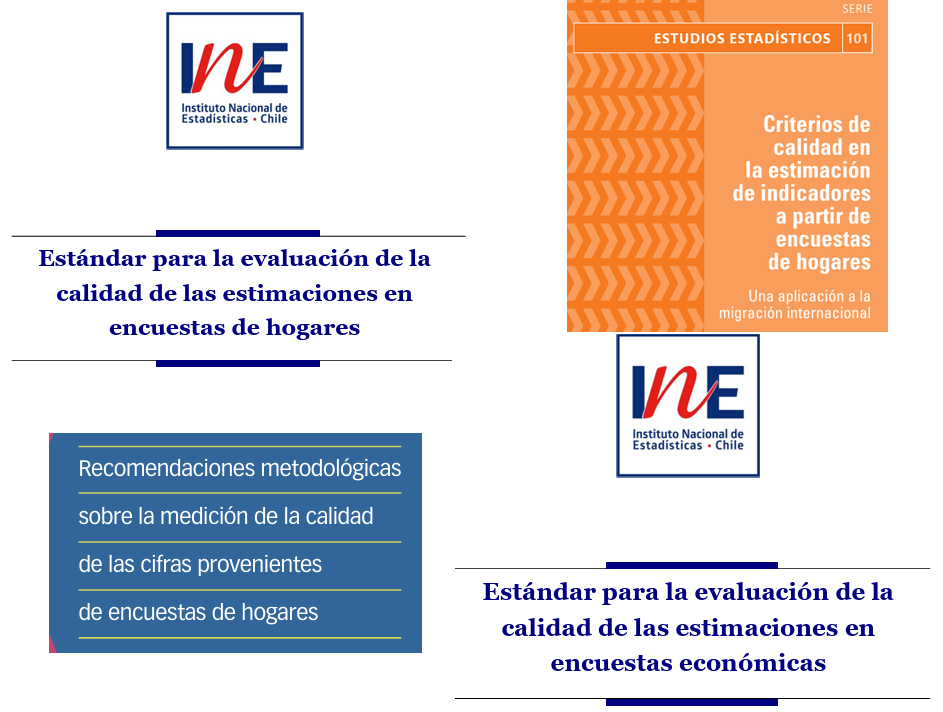
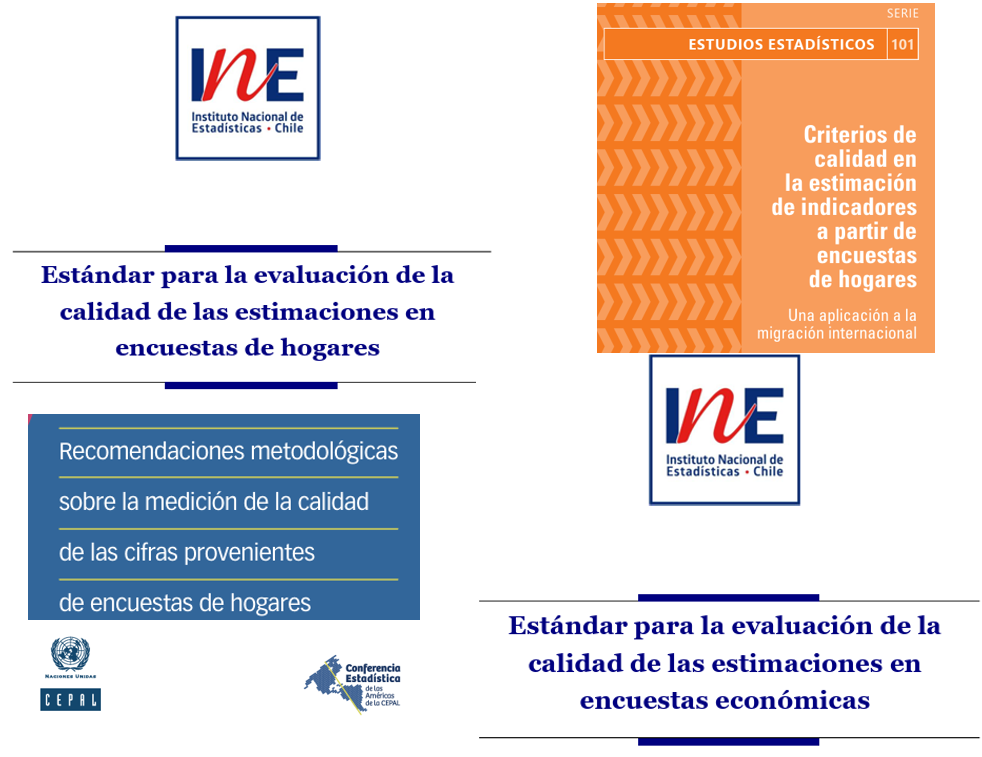
cambios esteticos

diff --git a/index.html b/index.html
@@ -232,10 +232,25 @@
 <p><span class="center">Quedamos atentos a su feedback 😀</span></p>
 </div>
 </section>
-<section id="paquete-calidad-descripción" class="slide level2">
-<h2>Paquete calidad | Descripción</h2>
-<p><span class="center"><img src="imagenes/plots/logo_calidad.png" width="10%"></span></p>
-<p><span class="center"><img src="imagenes/estandares.PNG" width="50%"></span></p>
+<section id="paquete-calidad" class="slide level2">
+<h2>Paquete calidad</h2>
+<div>
+
+</div>
+<div class="quarto-layout-panel" data-layout-ncol="2">
+<div class="quarto-layout-row">
+<div class="fragment small-par center quarto-layout-cell" style="flex-basis: 50.0%;justify-content: flex-start;">
+<p><img src="imagenes/estandares.PNG" width="100%"></p>
+</div>
+<div class="fragment small-par center quarto-layout-cell" style="flex-basis: 50.0%;justify-content: flex-start;">
+<p><img src="imagenes/plots/logo_calidad.png" width="20%"></p>
+<p><a href="https://www.ine.gob.cl/docs/default-source/institucionalidad/buenas-prácticas/clasificaciones-y-estandares/estándar-evaluación-de-calidad-de-estimaciones-publicación-27022020.pdf">Estándar de hogares INE</a></p>
+<p><a href="https://www.ine.gob.cl/docs/default-source/buenas-practicas/directrices-metodologicas/estandares/documentos/estándar-evaluación-de-calidad-de-estimaciones-económicas.pdf?sfvrsn=201fbeb9_2">Estándar de encuestas económicas INE</a></p>
+<p><a href="https://repositorio.cepal.org/server/api/core/bitstreams/4e2e55fc-3429-4619-8b6a-0bd5357b23b5/content">Estándar CEPAL</a></p>
+<p><a href="https://repositorio.cepal.org/server/api/core/bitstreams/f04569e6-4f38-42e7-a32b-e0b298e0ab9c/content">Estándar regional</a></p>
+</div>
+</div>
+</div>
 </section>
 <section id="paquete-calidad-flujo" class="slide level2 scrollable">
 <h2>Paquete calidad | Flujo</h2>
@@ -260,7 +275,7 @@
 <h2>Paquete calidad | Funciones create_*</h2>
 <div class="medium-par">
 <ul>
-<li class="fragment"><p>Las funciones <em>create_…()</em> generan los insumos necesarios para realizar la evaluación.</p></li>
+<li class="fragment"><p>Las funciones <em>create_()</em> generan los insumos necesarios para realizar la evaluación.</p></li>
 <li class="fragment"><p>Los parámetros principales son:</p>
 <ul>
 <li class="fragment"><em>var</em> : Variable a estimar</li>
@@ -316,7 +331,7 @@
 <section id="aplicación" class="slide level2">
 <h2>Aplicación</h2>
 <div class="medium-par">
-<p>Usaremos los datos de la VII ELE, disponibles en el paquete</p>
+<p>Usaremos los datos de la <strong>VII ELE</strong>, disponibles en el paquete</p>
 <p>Estimaremos y evaluaremos la productividad salarial (razón entre el Valor agregado 2022 y Remuneración total bruta del personal contratado) por tamaño y actividad.</p>
 </div>
 <div class="fragment">
@@ -443,7 +458,7 @@
 </div>
 <div class="fragment">
 <div class="cell">
-<div class="sourceCode cell-code" id="cb7"><pre class="sourceCode numberSource r number-lines code-with-copy"><code class="sourceCode r"><span id="cb7-1"><a href=""></a><span class="co"># segun codigo de tamaño y codido de actividad</span></span>
+<div class="sourceCode cell-code" id="cb7"><pre class="sourceCode numberSource r number-lines code-with-copy"><code class="sourceCode r"><span id="cb7-1"><a href=""></a><span class="co"># según codigo de tamaño y codido de actividad</span></span>
 <span id="cb7-2"><a href=""></a>prod_salarial <span class="ot">&lt;-</span> <span class="fu">create_prop</span>(<span class="st">'VA_2022f'</span>,</span>
 <span id="cb7-3"><a href=""></a>                             <span class="at">denominator =</span> <span class="st">'REMP_TOTAL'</span>,</span>
 <span id="cb7-4"><a href=""></a>                             <span class="at">domains =</span> <span class="st">'cod_tamano+ cod_actividad'</span>,</span>

diff --git a/ine_quarto_styles.css b/ine_quarto_styles.css
@@ -285,6 +285,9 @@ table tr:hover {
   background-color: #f0f0f0;
 }
 
+
+
+
 /*
 ----------------------------------------------------------------------------------------------------
 Settings for figures
